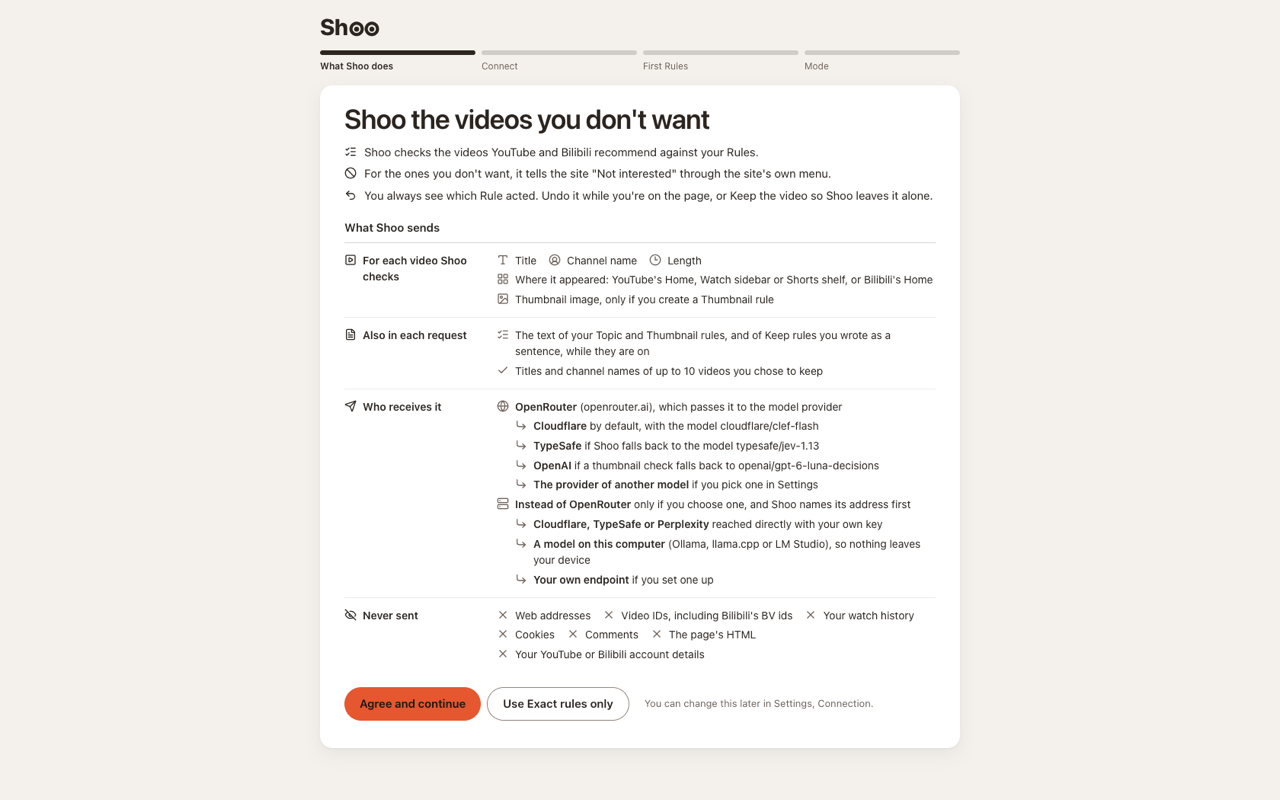
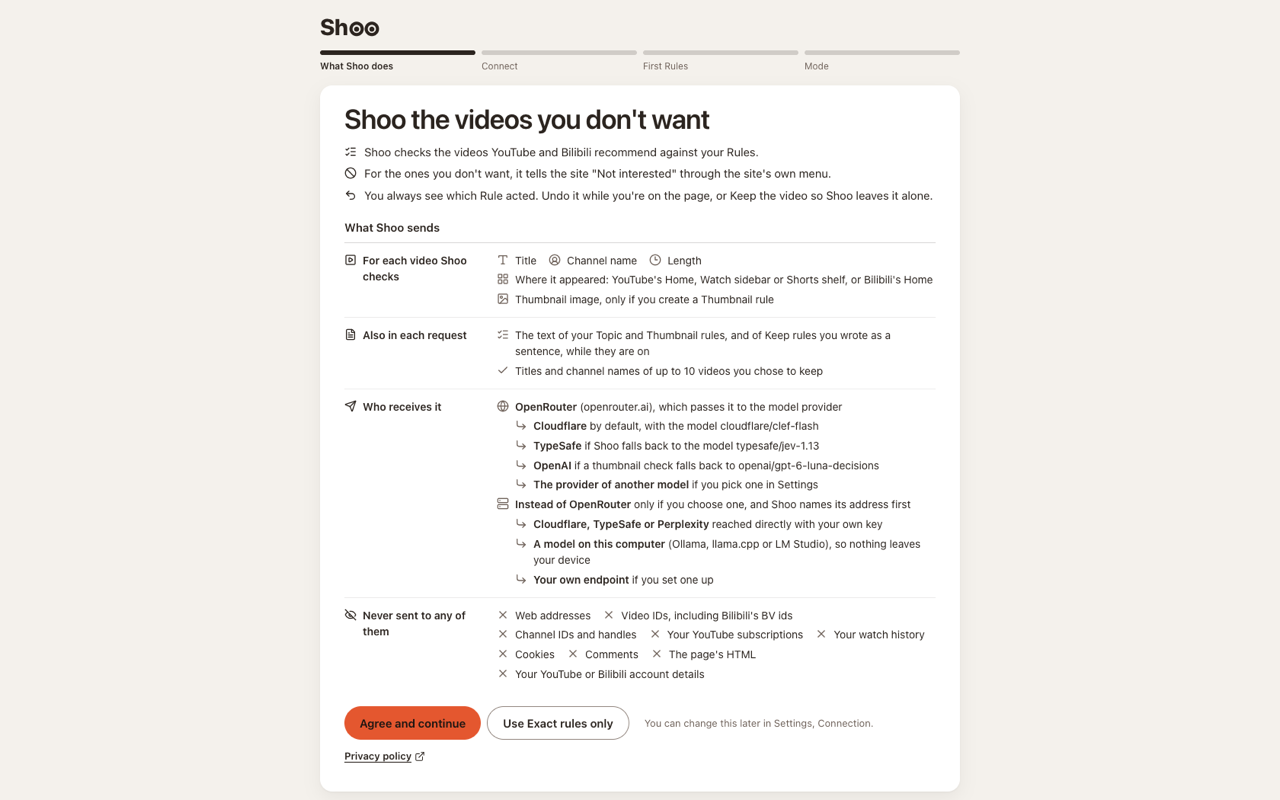
Re-shoot store screenshot 5 with the longer never-sent list

diff --git a/docs/release/chrome-web-store.md b/docs/release/chrome-web-store.md
@@ -76,7 +76,7 @@ English. The extension also ships a Simplified Chinese UI (`_locales/zh_CN`), wh
 
 ### Screenshots
 
-All 1280×800 PNG, no alpha, from the built extension in a fresh Chrome profile with "Use Exact rules only" and Exact rules written for the capture. No OpenRouter key, no real user data. All five were captured on 2026-11-04 from the current build (Chrome for Testing 150, puppeteer-core). Screenshots 1, 2, 3 and 4 come from one run on the fixture pages (`test/fixtures/youtube/page-watch.html`, `page-home.html`) served at youtube.com, with synthetic titles, channels and generated thumbnails and a minimal page style of our own, so no third-party thumbnails or titles appear. Screenshot 5 was captured at 1680×1050 and scaled to 1280×800.
+All 1280×800 PNG, no alpha, from the built extension in a fresh Chrome profile with "Use Exact rules only" and Exact rules written for the capture. No OpenRouter key, no real user data. Screenshots 1 to 4 were captured on 2026-11-04 and screenshot 5 on 2026-11-05, from the current build (Chrome for Testing 150, puppeteer-core). Screenshots 1, 2, 3 and 4 come from one run on the fixture pages (`test/fixtures/youtube/page-watch.html`, `page-home.html`) served at youtube.com, with synthetic titles, channels and generated thumbnails and a minimal page style of our own, so no third-party thumbnails or titles appear. Screenshot 5 was captured at 1680×1050 and scaled to 1280×800.
 
 | # | File | Shows | Staged? |
 |---|---|---|---|
@@ -84,7 +84,7 @@ All 1280×800 PNG, no alpha, from the built extension in a fresh Chrome profile 
 | 2 | `screenshots/2-popup.png` | Toolbar popup: On, Mode switch (Review), today's counts, "Shoo only uses Exact rules", Add a rule | **Composite**: the popup page placed over screenshot 1 where the toolbar popup would open. The popup shows 0 judged when only Exact rules ran (the counter counts model-judged videos) |
 | 3 | `screenshots/3-settings-rules.png` | Settings, Rules: Try a title above the first four of five Exact rules (Shorts, and the keywords cartoon, episode and compilation, with for kids below the fold) | Synthetic Rules. Mode reads Dry-run because the capture switched Mode to fill Activity |
 | 4 | `screenshots/4-activity.png` | Activity: Would remove rows with the Rule that matched, Keep and Always keep this channel | Synthetic Rules, Dry-run results on the fixture pages |
-| 5 | `screenshots/5-onboarding-consent.png` | Onboarding step 1: what Shoo does, What Shoo sends, Agree and continue, Use Exact rules only | Real page, captured 2026-11-04 at 1680×1050 so the whole disclosure fits, then scaled to 1280×800 with no other edits. This is the in-product disclosure CWS asks for |
+| 5 | `screenshots/5-onboarding-consent.png` | Onboarding step 1: what Shoo does, What Shoo sends, Agree and continue, Use Exact rules only | Real page, captured 2026-11-05 at 1680×1050 so the whole disclosure fits, then scaled to 1280×800 with no other edits. This is the in-product disclosure CWS asks for |
 
 Branding check: the Shoo assets use no YouTube logo. Screenshots 1, 2 and 4 show a YouTube page only as rebuilt from fixtures, with no third-party artwork.
 
